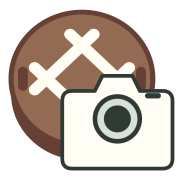
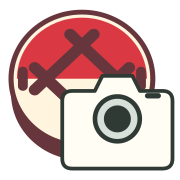
Restore red-white lid faces and change inner grille to brown

Changed region(s): [[0.0556, 0.0556, 0.8611, 0.7778]]

diff --git a/docs/shared-brand-icon.md b/docs/shared-brand-icon.md
@@ -1,8 +1,8 @@
 # 共通ブランドアイコン
 
-2026-10-11 採用: 「立てたふた＋白いカメラ」。茶色の格子入りマンホールを背面に、白いカメラを手前に重ねる。
+2026-10-11 採用: 「立てたふた＋白いカメラ」。赤白の面と茶色の格子のマンホールを背面に、白いカメラを手前に重ねる。
 
-内側は茶色（`#936B53`）、格子線は太い白（`#FFFDF4`）、外枠は濃い茶色（`#663F35`）。白いカメラは初稿から約10%縮小。全体を枠いっぱいに配置して下の余白を減らす。
+ふたの上半分は赤（`#DA3943`）、下半分は白（`#FFF5DE`）。格子線と外枠は茶色（`#66363C`）。白いカメラは初稿から約10%縮小。全体を枠いっぱいに配置して下の余白を減らす。
 
 カメラは上寄せにして、ふたの白い下半分の露出を減らす。
 
